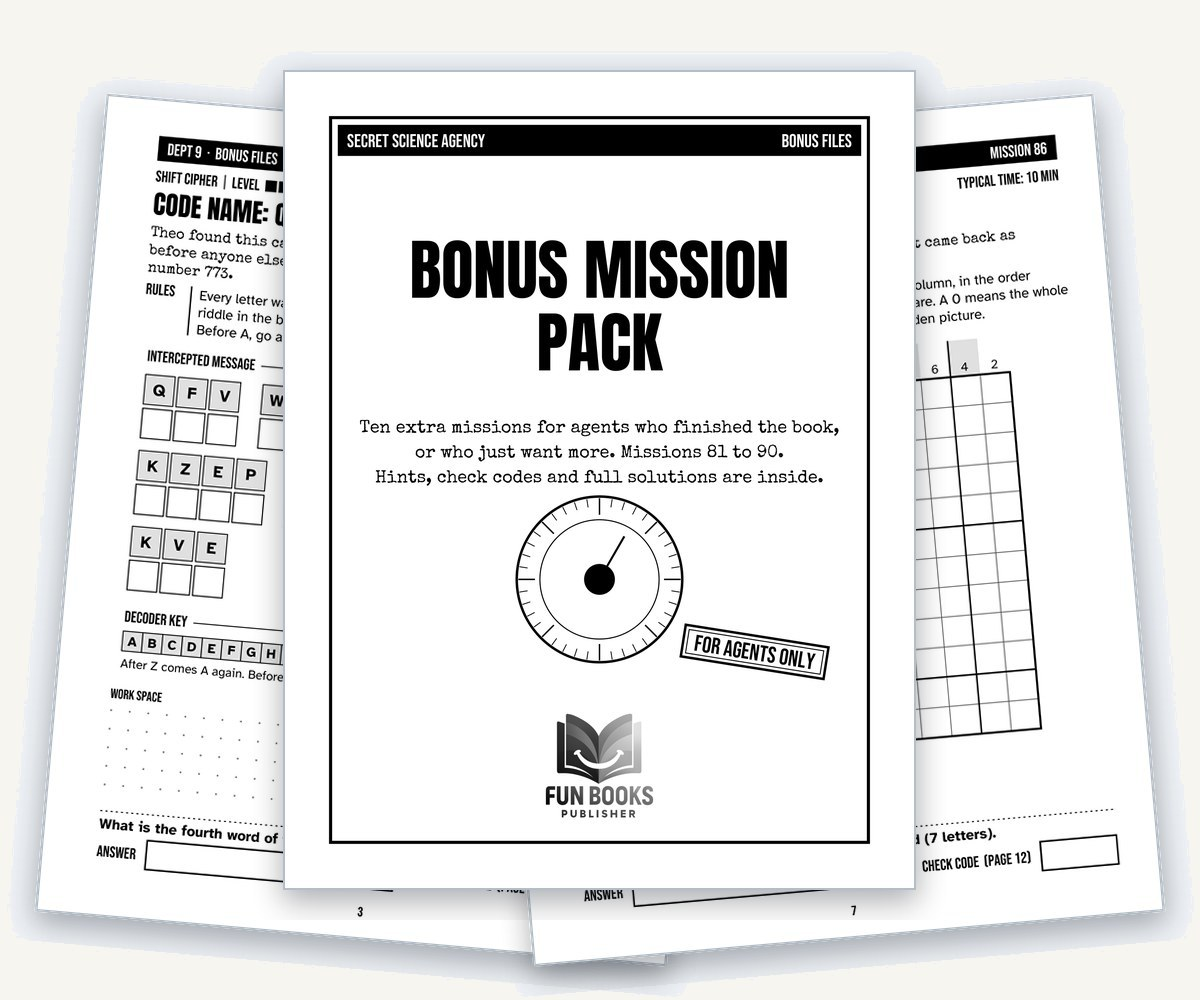
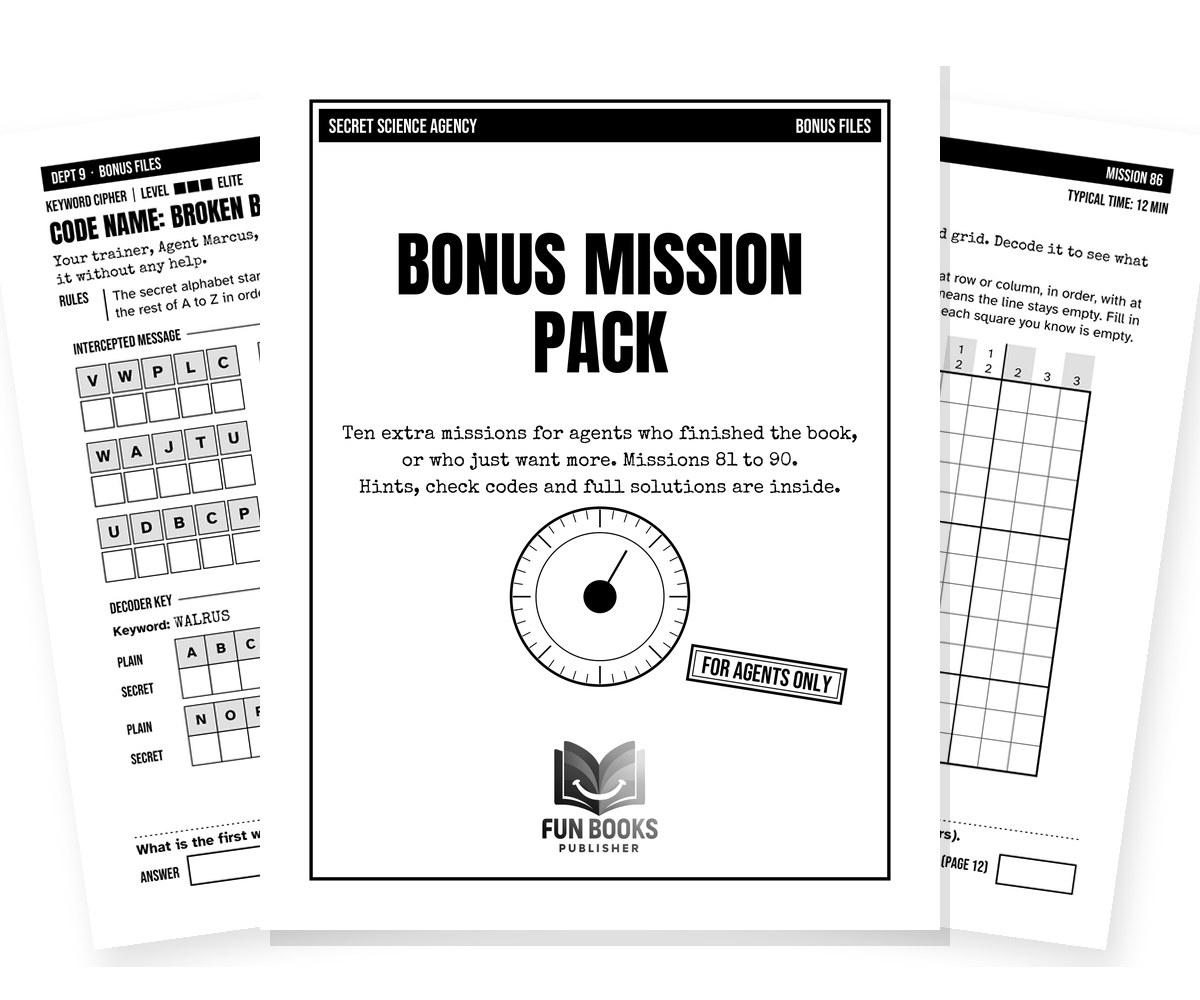
Secret Science Agency gift: missions 81-90 after the educator review (cryptogram replaces truth or lie)

Changed region(s): [[0.0, 0.062, 0.9867, 1.0], [0.3083, 0.217, 0.6783, 0.372]]

diff --git a/src/app/[locale]/bonus/[slug]/secret-science-agency-bonus.ts b/src/app/[locale]/bonus/[slug]/secret-science-agency-bonus.ts
@@ -1,10 +1,10 @@
 // Bonus Mission Pack for book 08, "Secret Science Agency: Logic Puzzles for Teens and Middle Schoolers"
 // (Fun Books Publisher, brain teasers for ages 11-14, 80 missions). The URL /bonus/secret-science-agency is printed as a
-// QR on page 170 of the interior, so THE SLUG IS PERMANENT. Do not rename it.
-// PREPARED 11 Nov 2026, NOT PUBLISHED: waiting for Alfredo's OK.
+// QR on page 172 of the interior, so THE SLUG IS PERMANENT. Do not rename it.
+// Published 11 Nov 2026 with Alfredo's OK. Updated 13 Nov 2026 after the educator review (cryptogram replaces truth or lie).
 // Audience is 11-14 and their parents (COPPA): direct download, no form, no email, no sign-up, and the Meta Pixel is
 // switched off on this path (see components/MetaPixel.tsx). KDP bonus content rules, G202018960.
-// PDF: missions 81-90, 19 pages, md5 dfe9685107ea590bd7f579378e45f409 (11 nov 2026, 'an atom'). If the PDF changes, update `pages` and `size`.
+// PDF: missions 81-90, 19 pages, md5 69e2e365a0b79a4823397aba8f9a1e42 (13 nov 2026, educator review). If the PDF changes, update `pages` and `size`.
 
 export type SecretScienceBonus = {
     slug: string;
@@ -40,16 +40,16 @@ export const SECRET_SCIENCE_BONUSES: Record<string, SecretScienceBonus> = {
         pages: 19,
         size: '0.6 MB',
         missions: [
-            { n: 81, type: 'Logic Grid', name: 'The Harbor Sign-Out', level: 'Advanced' },
-            { n: 82, type: 'Shift Cipher', name: 'Code Name: Quiet Comet', level: 'Elite' },
-            { n: 83, type: 'Lock Code', name: 'The Rusty Lab Safe', level: 'Advanced' },
+            { n: 81, type: 'Logic Grid', name: 'Sector Atlas Sort-Out', level: 'Advanced' },
+            { n: 82, type: 'Keyword Cipher', name: 'Code Name: Broken Beacon', level: 'Elite' },
+            { n: 83, type: 'Lock Code', name: 'The Rusty Tumbler', level: 'Advanced' },
             { n: 84, type: 'Word Ladder', name: 'Signal Path: Beam to Scan', level: 'Advanced' },
-            { n: 85, type: 'Truth or Lie', name: 'The Marble Vault', level: 'Advanced' },
-            { n: 86, type: 'Nonogram', name: 'The Shadow Printout', level: 'Advanced' },
+            { n: 85, type: 'Cryptogram', name: 'Radio Log: Cobalt Tide', level: 'Advanced' },
+            { n: 86, type: 'Nonogram', name: 'The Scrambled Screen', level: 'Advanced' },
             { n: 87, type: 'Symbol Balance', name: 'The Spark Check', level: 'Advanced' },
-            { n: 88, type: 'Shape Count', name: 'Crossed Lattice', level: 'Advanced' },
-            { n: 89, type: 'Word Math', name: 'Digits in Proof', level: 'Advanced' },
-            { n: 90, type: 'Calc Cages', name: 'The Silver Gate', level: 'Elite' },
+            { n: 88, type: 'Shape Count', name: 'Crossed Pattern', level: 'Advanced' },
+            { n: 89, type: 'Word Math', name: 'Adding Up to Light', level: 'Advanced' },
+            { n: 90, type: 'Calc Cages', name: 'The Cobalt Panel', level: 'Elite' },
         ],
         steps: [
             { name: 'Print', how: 'Print the pages you need. One mission fits on one page.' },
@@ -60,7 +60,7 @@ export const SECRET_SCIENCE_BONUSES: Record<string, SecretScienceBonus> = {
         ],
         inside: [
             'Ten new missions, numbered 81 to 90, that are not in the book',
-            'Ten different puzzle types, from a logic grid and a shift cipher to a nonogram and Calc Cages',
+            'Ten different puzzle types, from a logic grid and a keyword cipher to a cryptogram and Calc Cages',
             'Eight Advanced missions and two Elite ones, for agents who want a real challenge',
             'Check codes, so you can confirm an answer without seeing the solution',
             'Two levels of hints for every mission',
